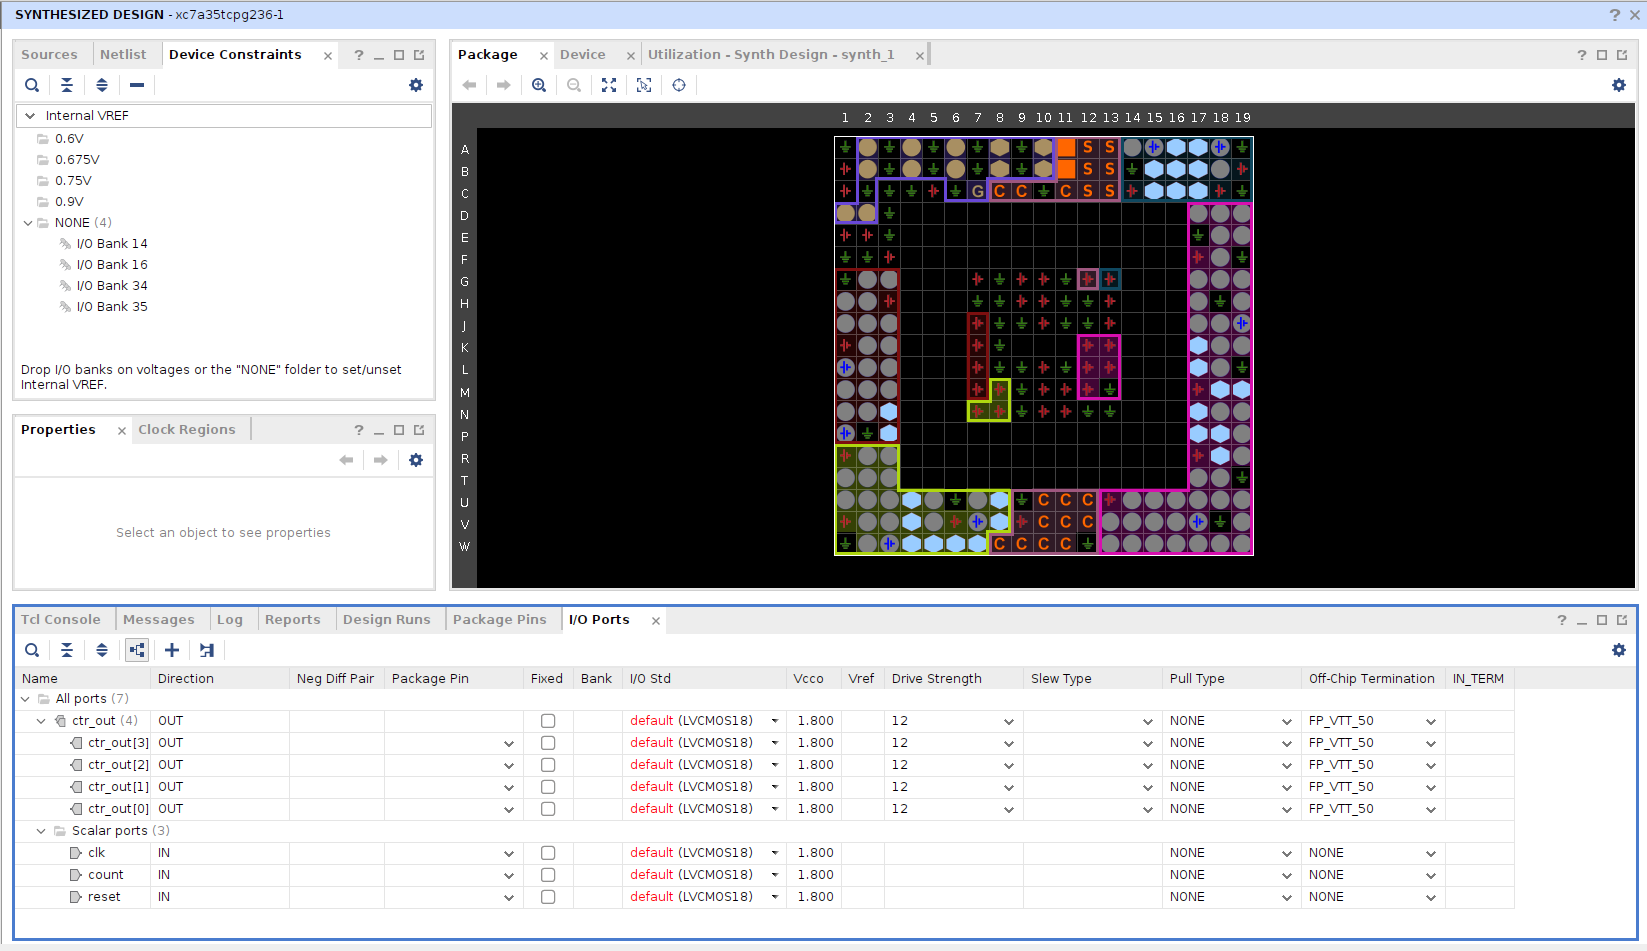
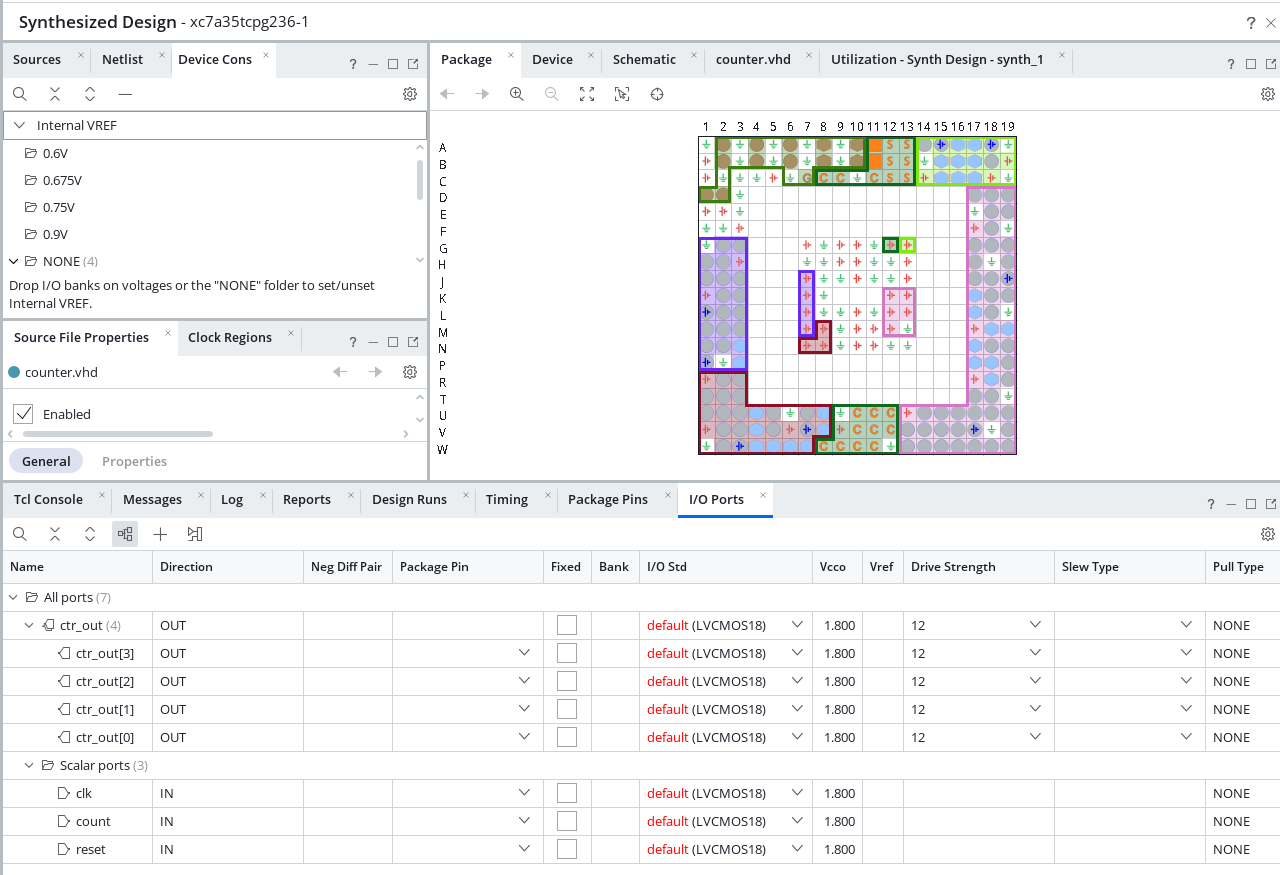
Update to Vivado 26.1

diff --git a/.vscode/style.css b/.vscode/style.css
@@ -1,0 +1,146 @@
+/* =========================================================
+   CSS Style Sheet für markdown-pdf
+   ========================================================= */
+
+   /* =========================================================
+   Grundlayout
+   ========================================================= */
+
+body {
+    font-family: "DejaVu Sans", Arial, sans-serif;
+    font-size: 11pt;
+    line-height: 1.45;
+    color: #222;
+}
+
+/* =========================================================
+   Überschriften
+   ========================================================= */
+
+h1 {
+    font-size: 24pt;
+    line-height: 1.2;
+    margin-top: 0;
+    margin-bottom: 20pt;
+    page-break-before: always;
+    page-break-after: avoid;
+}
+
+h1:first-child {
+    page-break-before: avoid;
+}
+
+h2 {
+    font-size: 18pt;
+    line-height: 1.25;
+    margin-top: 24pt;
+    margin-bottom: 10pt;
+    page-break-after: avoid;
+    color: #333;
+}
+
+h3 {
+    font-size: 14pt;
+    line-height: 1.3;
+    margin-top: 18pt;
+    margin-bottom: 8pt;
+    page-break-after: avoid;
+    color: #444;
+}
+
+h4 {
+    font-size: 12pt;
+    margin-top: 14pt;
+    margin-bottom: 6pt;
+    page-break-after: avoid;
+}
+
+/* =========================================================
+   Absätze
+   ========================================================= */
+
+p {
+    margin-top: 0;
+    margin-bottom: 8pt;
+    text-align: justify;
+}
+
+/* =========================================================
+   Links
+   ========================================================= */
+a {
+    color: #0066cc;
+}
+
+
+/* =========================================================
+   Hervorhebung
+   ========================================================= */
+
+strong {
+    color: #a00000;
+    font-weight: bold;
+}
+
+em {
+    color: #26736b;
+    font-style: italic;
+}
+
+/* =========================================================
+   Inline-Code: `reference_files`
+   ========================================================= */
+code {
+    color: #800080 !important;
+    background-color: #e8e8e8 !important;
+}
+
+/* =========================================================
+   Bilder
+   ========================================================= */
+
+img {
+    max-width: 100%;
+    height: auto;
+}
+
+figure {
+    page-break-inside: avoid;
+}
+
+
+/* =========================================================
+   Horizontale Linie
+   ========================================================= */
+
+hr {
+    border: 0;
+    border-top: 1px solid #aaa;
+    margin: 20pt 0;
+}
+
+
+/* =========================================================
+   Seitenumbrüche
+   ========================================================= */
+
+h2,
+h3,
+h4 {
+    page-break-inside: avoid;
+}
+
+table,
+pre,
+blockquote {
+    page-break-inside: avoid;
+}
+
+/* =========================================================
+   Druckformat
+   ========================================================= */
+
+@page {
+    size: A4;
+    margin: 22mm 20mm 20mm 25mm;
+}

diff --git a/vivado/vivado_intro/vivado_intro.md b/vivado/vivado_intro/vivado_intro.md
@@ -3,11 +3,11 @@
 ---
 ## Overview
 
-* This tutorial is a self-study course to introduce the Xilinx Vivado development environment. Using a simple VHDL example, the tutorial describes the necessary steps in Vivado to go from entering the VHDL source code to generating a bit file for programming an FPGA. The tutorial refers to _Vivado_ version 2025.1, with which the individual steps were tested. When you have installed the _Xilinx Vitis Core Development Kit_ then Vivado is included. You can also install Vivado as a standalone tool from the [Xilinx homepage](http://www.xilinx.com/support/download.html). Select `Vivado` and `2025.1` and then `Xilinx Unified Installer 2025.1: Windows Self Extracting Web Installer` (or the Linux Web Installer if necessary). You must request a license at the end of the installation. To do this, you must register with Xilinx.
+* This tutorial is a self-study course to introduce the Xilinx Vivado development environment. Using a simple VHDL example, the tutorial describes the necessary steps in Vivado to go from entering the VHDL source code to generating a bit file for programming an FPGA. The tutorial refers to _Vivado_ version 2026.1, with which the individual steps were tested. When you have installed the _Xilinx Vitis Core Development Kit_ then Vivado is included. You can download the _AMD Unified Installer_ from the [Xilinx homepage](http://www.xilinx.com/support/download.html). You must request a license at the end of the installation. To do this, you must register with Xilinx.
 * If you would like to test the resulting design on FPGA hardware, then the [Basys 3 FPGA board](https://digilent.com/reference/programmable-logic/basys-3/start) from Digilent would be recommended. The pin assginment in this tutorial is dedicated to this board. But you do not necessarily need the board to work through this tutorial using the Vivado software. 
 * For further and more in-depth informations on the Xilinx Vivado design flow, the Xilinx documentation is recommended for example the [UltraFast Design Methodology Guide for FPGAs and SoCs ](https://docs.amd.com/r/en-US/ug949-vivado-design-methodology).
 * The source files for this tutorial can be found in the folder `reference_files`. Download the complete folder `vivado_intro/reference_files` to your computer. 
-  * You can either download this whole Github repository or only the folder `reference_files` using a browser extension like [GitZip](https://gitzip.org).
+* _Note_: You can either download this whole Github repository or only the folder `reference_files` using a browser extension like [GitZip](https://gitzip.org).
 
 ---
 ## Creating a project
@@ -16,15 +16,15 @@
 
 * Create a work directory for the Vivado projects on your development computer, e.g. in your user directory or somewhere else where you as a user have write and read permissions.
 
-* Start Vivado 2025.1 from the Windows (or Linux) Start menu (usually found under _Xilinx Design Tools_).
+* Start Vivado 2026.1 from the Windows (or Linux) Start menu (usually found under _Xilinx Design Tools_).
 
-* Under `Quick Start` create a new project by pushing `Create Project`. A _Wizard_ opens as shown in the next image. Enter the relevant entries in the dialogs as described below and go to the next dialog by clicking `Next`.
+* Under `Quick Start` create a new project by pushing the button `New Project`. A _Wizard_ opens as shown in the next image. Enter the relevant entries in the dialogs as described below and go to the next dialog by clicking `Next`.
 
 ![Vivado GUI](images/viv_001.png)
 
-* Give your project a name (e.g. _intro1_). Select the previously created work directory for the Vivado project files as the `Project location` and activate the `Create project subdirectory` option. Important: Do not use spaces, special characters or umlauts in path or file names! The subdirectory will be named with the project name. Push `Next`.
+* Give your project a name (e.g. _intro_proj_). Select the previously created work directory for the Vivado project files as the `Project location` and activate the `Create project subdirectory` option. Important: Do not use spaces, special characters or umlauts in path or file names! The subdirectory will be named with the project name. Push `Next`.
 * Select `RTL Project` as the project type and select `Do not specify sources at this time`. We will add the VHDL sources later. Push `Next`.
-* In the next dialog the FPGA target component must be specified. The quickest way to select the FPGA component that is installed on the BASYS3 board is to use the following settings: `Family: Artix-7`, `Package: cpg236`, `Speed: -1`. Select the component `xc7a35tcpg236-1` from the list and complete the project creation by clicking `Next` and then `Finish` in the following dialog. You will be returned to the Vivado GUI as shown in the following image.
+* In the next dialog the FPGA target part must be specified. Enter the part `xc7a35tcpg236-1` in the search field on the _Parts_ tab, select the part and complete the project creation by clicking `Next` and then `Finish` in the following dialog. You will be returned to the Vivado GUI as shown in the following image.
 
 ![Vivado GUI](images/viv_002.png)
 
@@ -34,7 +34,7 @@
   * 3: Tool window
   * 4: Console, messages, reports etc. (named tab area in the following)
 * The correct specification of the FPGA component is particularly important for the implementation and the correct assignment of the pins. If the wrong component is selected, the FPGA will not be able to be configured correctly later. The creation of the Vivado project is now complete.
-  * _Note_: The exact specification of the FPGA part is only necessary if you plan to download the bitfile at the end of this tutorial to the _Basys 3_ board. If you do not have the board, you can select any other part from the _Artix-7_ family. 
+* _Note_: The exact specification of the FPGA part is only necessary if you plan to download the bitfile at the end of this tutorial to the _Basys 3_ board. If you do not have the board, you can select any other part from the _Artix-7_ family. 
 
 ---
 ## Adding the VHDL source files
@@ -45,9 +45,11 @@
 
 ![Add sources](images/viv_003.png)
 
-* Repeat this for the testbench file: Click `Add Sources` again, but select now `Add or Create Simulation Sources`. This is important so that Vivado knows that the testbench is only there for simulation and should not be implemented in hardware. Add the testbench file `counter_tb.vhd` as shown in the next image and click `Finish`.
+* Repeat this for the testbench file: Click `Add Sources` again, but select now `Add or Create Simulation Sources`. This is important such that Vivado knows that the testbench is only there for simulation and should not be implemented in hardware. Add the testbench file `counter_tb.vhd` as shown in the next image and click `Finish`.
 
 ![Add sources](images/viv_004.png)
+
+* _Note_: You can also keep the sources in the folder `reference_files` by unchecking `Copy sources into project`.
 
 * Now check that you have all neccessary sources in the _Sources_ pane, which is in the _Project Manager_ window in the top left corner as shown in the next image. You can see two entries: _Design Sources_ and _Simulation Sources_ (push the arrow symbol to extend). The `counter.vhd` source file is listed under both entries, but the `counter_tb.vhd` source is listed only under _Simulation Sources_ since it is only needed for simulation. When you later on setup up a new project you should always check that you have all necessary source files and that the testbench is only visible under _Simulation Sources_. The sources belonging to the design itself should appear under _Design Sources_ **and** _Simulation Sources_ .
 
@@ -60,16 +62,16 @@
 
 * In this section we will simulate the design using the testbench.
 * To start the simulator, click on `Run Simulation > Run Behavioral Simulation` in the _Flow Navigator_ under _Simulation_. The simulator window should open up as shown in the next image.
-  * _Note_: Vivado is an integrated development environment that starts various tools such as project management, simulator, synthesis or implementation via the _Flow Navigator_ and displays them in an integrated window. Whenever you start a tool a new window will open up in the central tool window of Vivado and gets stacked on top of the previous tool window. You can close a tool by pushing the symbol `X` in the blue title area of the tool (last symbol to the right) and you will be back to the previous tool window. On the bottom of this window stack you should always have the _Project Manager_ window, which you should not close because that would close the complete project.
+* _Note_: Vivado is an integrated development environment that starts various tools such as project management, simulator, synthesis or implementation via the _Flow Navigator_ and displays them in an integrated window. Whenever you start a tool a new window will open up in the central tool window of Vivado and gets stacked on top of the previous tool window. You can close a tool by pushing the symbol `X` in the title area of the tool (last symbol to the right) and you will be back to the previous tool window. On the bottom of this window stack you should always have the _Project Manager_ window, which you should not close because that would close the complete project.
 
 ![Simulation](images/viv_006.png)
 
 * Under the _Scope_ tab (on the left side of the simulator window) you can see the hierarchical structure of your design. The test bench _counter_tb_ is at the top level, and below that is the counter _counter_ (instance name _dut_, see testbench). The ports, signals and constants defined for the module currently selected under _Scope_ are listed in the _Objects_ window; these can in turn be transferred to the _Waveform Window_ on the right side using _drag & drop_. By default, the signal curves (a.k.a. _waveforms_) of all objects at the top hierarchy level are displayed, in this case the test bench.
 * By default, 1000 ns are simulated, but this default setting can be changed in the _Flow Navigator_ under `Settings > Simulation` before the next start of the simulator. In the _Waveform Window_ you will find a bar at the top with buttons for zooming and other functions. To see the complete signal curve, for example, use the `Zoom Fit` button.
-  * _Note_: Hover with the mouse over the symbols in the _Waveform Window_ and you will see the function of the symbols. 
+* _Note_: Hover with the mouse over the symbols in the _Waveform Window_ and you will see the function of the symbols. 
 * If you want to see internal signals from the _counter_, then select the instance name _dut_ under _Scope_ and then you can select the corresponding signals under _Objects_ using the right mouse button: In the context menu that appears, you can then add the signal using `Add To Wave Window`. 
-* However, you will not yet see any signal curves for the new signals. To see them, you must restart the simulator: The Vivado toolbar was expanded above the simulator window when the simulator was started (marked in red in the previous image). There you will find several blue buttons; if you hover the mouse over them, the function is shown. You can use the `Restart` button to reset the simulator to time 0. You can now enter a new simulation time in the toolbar field (e.g. 100 ns) and simulate the corresponding time using the `Run for ...` button (showing the time you entered in the field). 
-  * _Note_: Do not use the `Run All` button, because then simulation will run without stopping and you must stop it manually with the `Break` button.
+* However, you will not yet see any signal curves for the new signals. To see them, you must restart the simulator: The Vivado toolbar was expanded above the simulator window when the simulator was started. There you will find several buttons; if you hover the mouse over them, the function is shown. You can use the `Restart` button to reset the simulator to time 0. You can now enter a new simulation time in the toolbar field (e.g. 100 ns) and simulate the corresponding time using the `Run for ...` button (showing the time you entered in the field). 
+* _Note_: Do not use the `Run All` button, because then simulation will run without stopping and you must stop it manually with the `Break` button.
 * You can also enter these commands directly in the _Tcl Console_ which you can find in the lower tab area of the Vivado GUI as shown in the next image (the commands you have entered so far are also displayed there), this can be more practical. The commands are for example: _restart_ and _run 100 ns_. If you enter _run \<time\>_ several times, the simulation will continue accordingly with the time you entered. Only a _restart_ will reset the simulation.
 
 ![Simulation](images/viv_007.png)
@@ -88,6 +90,8 @@
 
 ![Elaboration](images/viv_008.png)
 
+* There is also a so-called _Linter_ avalaible, which can detect problems in your VHDL code. Just push `Run Linter` under _RTL Analysis_ to run the linter. Since the code is correct you should see no problems.
+
 ---
 ## Synthesis
 * The next step is _Synthesis_: It maps the VHDL design onto the components available in the FPGA (flip-flops, look-up tables, multiplexers, RAM). The synthesis can also reveal design errors that may not be visible in the simulation (e.g. incomplete sensitivity lists or incompletely coded IF conditions). It is therefore highly recommended to examine the messages (warnings) of the synthesis in depth.
@@ -96,8 +100,7 @@
 
 ![Synthesis](images/viv_009.png)
 
-* Any warnings or errors will be displayed in the `Messages` tab (bottom tab area). When you switch off the `Info` you will get a better overview over the warnings. There are warnings for every tool and when you select `Synthesis` you should see only one warning `[Synth 8-7080] Parallel synthesis criteria is not met
-`, which means that the design is to small for a parallel synthesis. 
+* Any warnings or errors will be displayed in the `Messages` tab (bottom tab area). When you switch off the `Info` you will get a better overview over the warnings. There are warnings for every tool and when you select `Synthesis` you should see no warning for the current design. 
 * When you later on write your own code then please check in the `Messages` tab that there are no incomplete sensitivity lists or latches caused by incomplete signal assignments. These are not errors, just warnings, i.e. your code will be implemented in hardware, but you may end up with hardware that does not work correctly.
 * In the _Flow Navigator_ under _Synthesis_ click on `Open Synthesized Design`. If you now click on `Schematic` in the _Flow Navigator_ under _Synthesis_, a window will appear with a schematic drawing of the implementation of your code in the target technology, as shown in the next image.
 
@@ -121,19 +124,19 @@
 
 ![Constraints](images/viv_013.png)
 
-* Skip all other dialog windows with `Skip to Finish` and close the last dialog with `Finish`. In the _Sources_ tab open the constraint file `constr.xdc`. You should see here the same constraints as shown in the next image (the order may be different). Check all lines and if there are differences to the image below, then you can correct this in this file. This constraints file is the basis for the following implementation.
+* Skip all other dialog windows with `Skip to Finish` and close the last dialog with `Finish`. In the _Sources_ tab under _Constraints_ open the constraint file `constr.xdc`. You should see here the same constraints as shown in the next image (the order may be different). Check all lines and if there are differences to the image below, then you can correct this in this file. This constraints file is the basis for the following implementation. You can find also a correct constraints file in the `reference_files`.
 
 ![Constraints](images/viv_014.png)
 
-* Finish defining constraints by clicking on the cross in the top right corner of the blue title bar of _Synthesized Design_.
-  * Note: Following this procedure, a synthesis run is first carried out without timing constraints. Global optimization goals are then specified during the synthesis (see synthesis settings). If a timing analysis is carried out after the synthesis (analogous to the procedure after implementation described below), it is reported that no constraints are present (entry _Check Timing_). However, after entering the timing constraints, a synthesis run can then be carried out again, in which case the timing constraints are then taken into account (and in all further synthesis runs). But since a timing analysis after synthesis is rather inaccurate it is better to move to the _implementation_.
+* Finish defining constraints by clicking on the cross in the top right corner of the title bar of _Synthesized Design_.
+* Note: Following this procedure, a synthesis run is first carried out without timing constraints. Global optimization goals are then specified during the synthesis (see synthesis settings). If a timing analysis is carried out after the synthesis (analogous to the procedure after implementation described below), it is reported that no constraints are present (entry _Check Timing_). However, after entering the timing constraints, a synthesis run can then be carried out again, in which case the timing constraints are then taken into account (and in all further synthesis runs). But since a timing analysis after synthesis is rather inaccurate it is better to move to the _implementation_.
 
 ---
 ## Implementation
 
 * In this section, the _implementation_ is run in order to place the components on the FPGA and then do the routing. This process is also called _Place & Route_.
 * In the _Flow Navigator_ under _Implementation_ click on `Run Implementation`. If you get a message saying that the synthesis is _out of date_, click on `Yes`. This will run the synthesis again. Basically, Vivado checks the time stamps of the source files (VHDL codes, constraints, etc.) and restarts the relevant tools that are affected and also runs all the previous steps again. That means if you have changed sources later, it is sufficient to simply click on the last step `Generate Bitstream` again, so that all the necessary previous steps, such as synthesis and implementation, are then run again.
-  * _Note_: When you start the implementation you will be asked for setting _Options_ for the synthesis run. The default is to launch runs on local host (your computer). You can set the number of jobs, which means that the synthesis run (and also the implementation run) will be tried to parallelize in order to use the multi-core architecture of your computer. 
+* _Note_: When you start the implementation you will be asked for setting _Options_ for the synthesis run. The default is to launch runs on local host (your computer). You can set the number of jobs, which means that the synthesis run (and also the implementation run) will be tried to parallelize in order to use the multi-core architecture of your computer. 
 * After completing the implementation, click on `View Reports` and check the messages in the _Messages_ tab. To check whether the _timing constraints_ you specified were met, you can search for _Route Design_ in the _Reports_ tab and open the _Timing Summary Report_ there. 
 * Now open the implemented design by clicking on `Open Implemented Design`. A further tab _Timing_ opens in the tab area at the bottom, in which you can find details about the timing . If you select `Intra Clock Paths` in the navigation window on the left , you can see the _Intra Clock Paths_ tab as shown in the next image. Select `clk` and you can get more detailed information about the critical paths. 
 
@@ -148,9 +151,9 @@
 * In the _Flow Navigator_ under _Program and Debug_ click on `Generate Bitstream` and wait until the bitstream generation is finished.
 * If you have a _Basys 3_ board available, connect it to the development computer with a USB cable and switch the board on.
 * When the bitstream generation is finished, you can click `Open Hardware Manager`. In the upper left corner of the _Hardware Manager_ window, click `Open Target > Auto Connect`. Make sure the board is turned on first!
-  * _Note_: If you can not connect to the board, check that the cable drivers for the board connections have been installed during installation of Vivado. You can find further information [here](https://docs.amd.com/r/en-US/ug973-vivado-release-notes-install-license/Installing-Cable-Drivers).
+* _Note_: If you can not connect to the board, check that the cable drivers for the board connections have been installed during installation of Vivado. You can find further information [here](https://docs.amd.com/r/en-US/ug973-vivado-release-notes-install-license/Installing-Cable-Drivers).
 * You should now see the view shown in the next image. If you now click on `Program Device` (marked in red), you can download the bitstream by clicking on `Program`. The FPGA will now be programmed. When this process is finished, the _DONE_ LED on the board should light up and your design is  ready for testing on the board!
-  * _Note_: If no bit file appears under _Program Device_, it is usually because you may have selected the wrong FPGA type when creating the Vivado project. When the Hardware Manager connects to the FPGA, the type designation is read out (window _Hardware Device Properties_). If this does not match the type designation in the bit file, the bit file is not automatically entered for download. If this has happened, you must go to _Settings_ in the Project Manager and correct the FPGA type (_xc7a35tcpg236-1_) and then go through all the steps again by simply clicking on _Generate Bitstream_.
+* _Note_: If no bit file appears under _Program Device_, it is usually because you may have selected the wrong FPGA type when creating the Vivado project. When the Hardware Manager connects to the FPGA, the type designation is read out (window _Hardware Device Properties_). If this does not match the type designation in the bit file, the bit file is not automatically entered for download. If this has happened, you must go to _Settings_ in the Project Manager and correct the FPGA type (_xc7a35tcpg236-1_) and then go through all the steps again by simply clicking on _Generate Bitstream_.
 
 ![HW Manager](images/viv_016.png)
 
